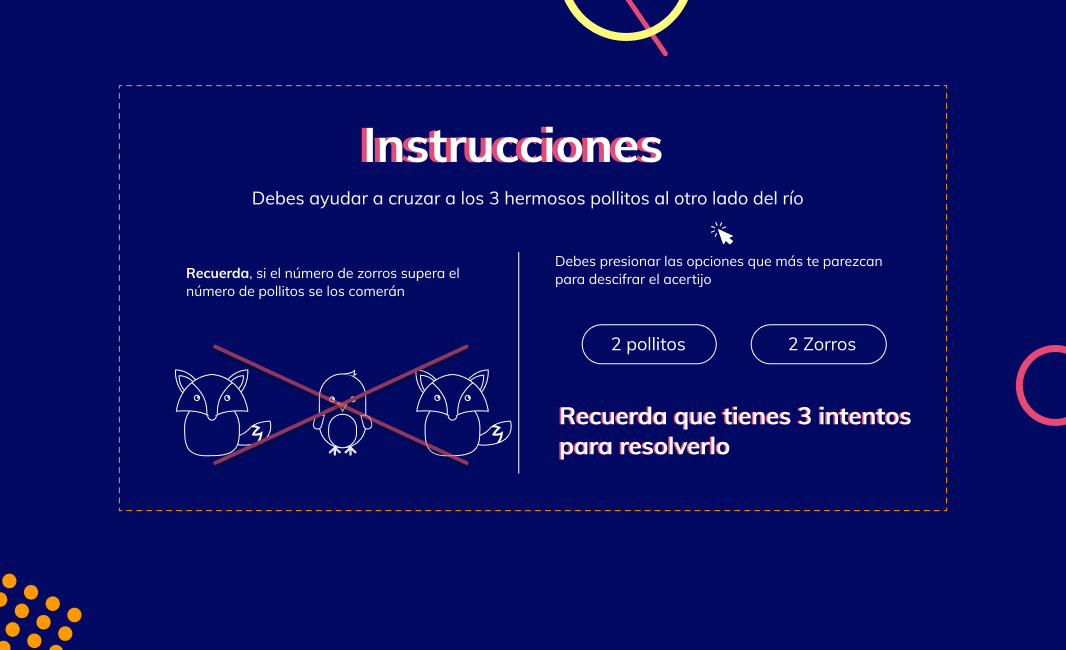
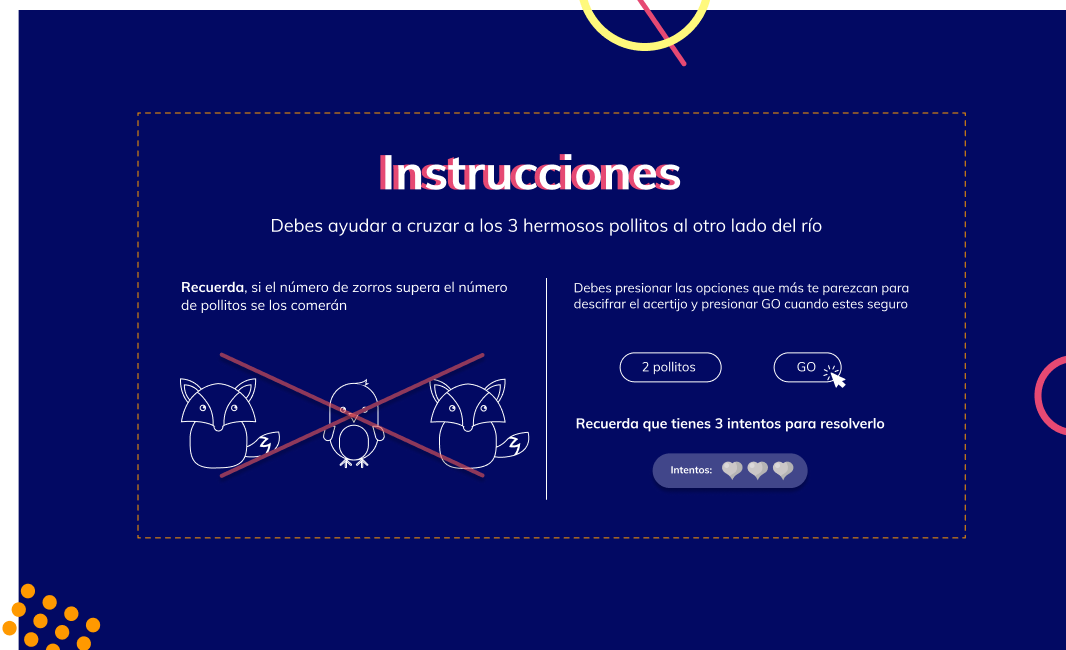
version 3

diff --git a/sketch.js b/sketch.js
@@ -3,6 +3,9 @@ let goalState = [0, 0, 0];
 let state = [];
 let killedState = [];
 let iterator = true;
+var intentos = 3;
+
+
 // create an object for individual state
 class CreateState { 
   constructor() {
@@ -21,13 +24,15 @@ rootNode.visited = false;
 
 
 let imgInstruc;
-
 let imgZorro;
 let imgConejo;
 let imgFondo;
 let imgBarca;
-
+let imgLose;
+let imgWin;
 let pantalla;
+let cora;
+let espacioVida;
 
 function  preload(){
 
@@ -36,7 +41,10 @@ function  preload(){
   imgZorro= loadImage('/img/zorro.png');  
   imgFondo= loadImage('/img/fondo.png');
   imgInstruc= loadImage('/img/instruc.png');
-
+   imgWin=loadImage('/img/win.png')
+  imgLose=loadImage('/img/lose.png');
+  cora=loadImage('/img/cora.png');
+  espacioVida=loadImage('/img/espacioVida.png');
 }
 
 function setup() {
@@ -60,6 +68,7 @@ function setup() {
 }
 function draw() {
 
+  console.log('estoy en pantalla: '+pantalla);
   switch(pantalla){
 
     case 0:
@@ -70,6 +79,11 @@ function draw() {
 
     case 1:
     image(imgFondo,width/2,height/2);
+
+    image(espacioVida,width-400,100);
+    for(let h=0; h<intentos; h++){
+      image(cora,(width-400)+ h*40, 100);
+    }
 
     // set boat position
     let x;
@@ -105,6 +119,12 @@ function draw() {
     }
 
     break;
+    case 2:
+    image(imgLose,width/2,height/2);
+    break;
+    case 3:
+    image(imgWin,width/2,height/2);
+    break;
 
   }
 
@@ -118,6 +138,13 @@ function mouseClicked(){
     
     pantalla=1;
   }
+ if(pantalla==2 && mouseY>=389 && mouseY<=429 && mouseX>697 && mouseX<832){
+  pantalla=1; 
+ }
+ if(pantalla==3 && mouseY>=389 && mouseY<=429 && mouseX>697 && mouseX<832){
+   //Siguiente codigo perras
+   location= '/resultados.html';
+ }
 
 
 }

diff --git a/game.js b/game.js
@@ -2,7 +2,7 @@ let missionaryCount;
 let cannibalCount;
 let tracker = [3, 3, 1];
 let parent;
-let intentos = 3;
+
 
 document.querySelector('#oneMissionary').addEventListener('click', () => play(1, 0));
 document.querySelector('#oneCannibal').addEventListener('click', () => play(0, 1));
@@ -51,10 +51,9 @@ function applyMove(M, C) {
                 console.log(tracker);
                 if (tracker[0] == 0 && tracker[1] == 0 && tracker[2] == 0) {
                     console.log("YOU WON");
-                    alert("HURRAH! Ganaste!");
 
+                    pantalla=3;
                     //Logica de cambiar pantalla
-                    location = "/resultados.html";
                    
                     
 
@@ -74,7 +73,7 @@ function applyMove(M, C) {
                     console.log("ja manga de putitos" + intentos);
                     //  location.reload();
                     console.log("GAME OVER");
-                    alert("PERDISTE");
+                    pantalla=2;
                 }
             }
         } else {
@@ -108,15 +107,3 @@ function checkfromState() {
     }
     return false;
 }
-/*
-this.getscript("sketch.js", function(){
-    getPantalla();
- });
-// applying 5 possible operations on button click events.
-let botones=document.querySelectorAll('.buttons');
-
-if(getPantalla()==0){
-    botones.style.visibility="hidden";
-}
-
-*/

diff --git a/main.css b/main.css
@@ -30,7 +30,8 @@ ul li {
     color: #fff;
 }
 ul li:hover {
-    cursor: pointer; 
+    cursor: pointer;
+    background-color:rgb(226, 6, 65); 
 }
 
 .instruc{
@@ -59,7 +60,28 @@ text-decoration: none;
 justify-content: center;
 align-content: center;
 
-
-
 }
 
+.espacioGo{
+    display: flex;
+    justify-content: center;
+    align-content: center;
+    align-items: center;
+}
+
+.gogo{
+    margin-top: 10px;
+    background-color: rgb(4, 207, 197);
+    border:none;
+    border-radius: 5px;
+    text-align: center;
+    text-decoration: none;
+    width:60px;
+    height:40px;
+    font-size: 25px;
+    
+    color: white;
+}
+.gogo:hover{
+    background-color: rgb(1, 128, 121);
+}

diff --git a/game.html b/game.html
@@ -16,8 +16,9 @@
         <li id = 'twoCannibals'> 2 Zorros </li>
         <li id = 'oneMissionaryOneCannibal'> 1 Pollito & 1 Zorro</li>
       </ul>
-      <div  >
-        <button id= 'go'>Go</button>
+      <div class="espacioGo"  >
+        <button class= "gogo" id= 'go'>Go</button>
+        <div class="perder"></div>
 
       </div>
     </div>
